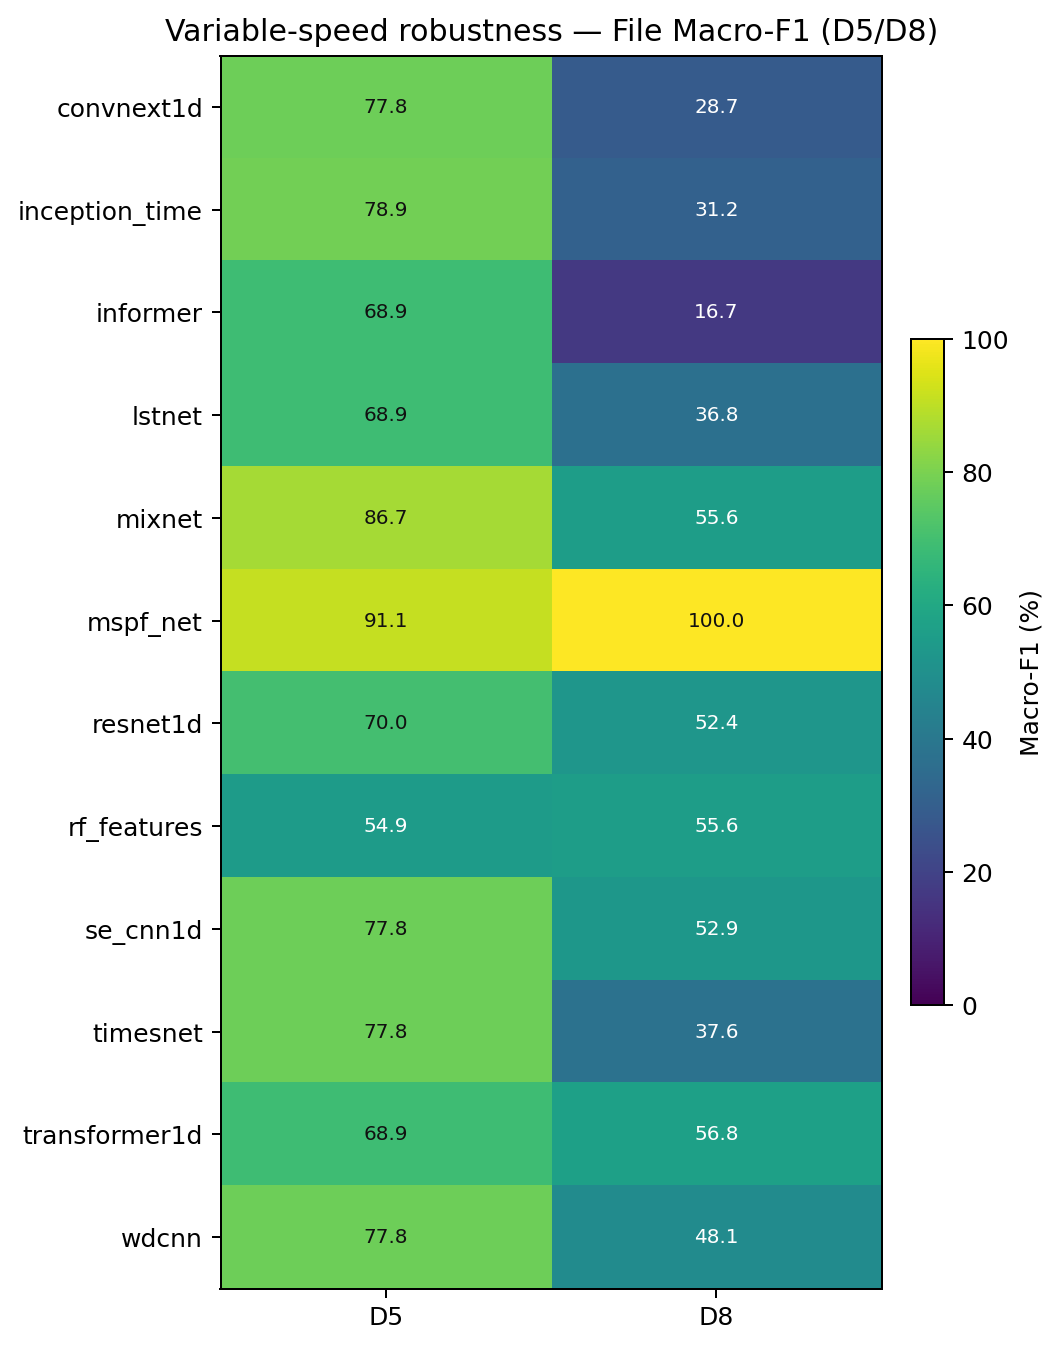
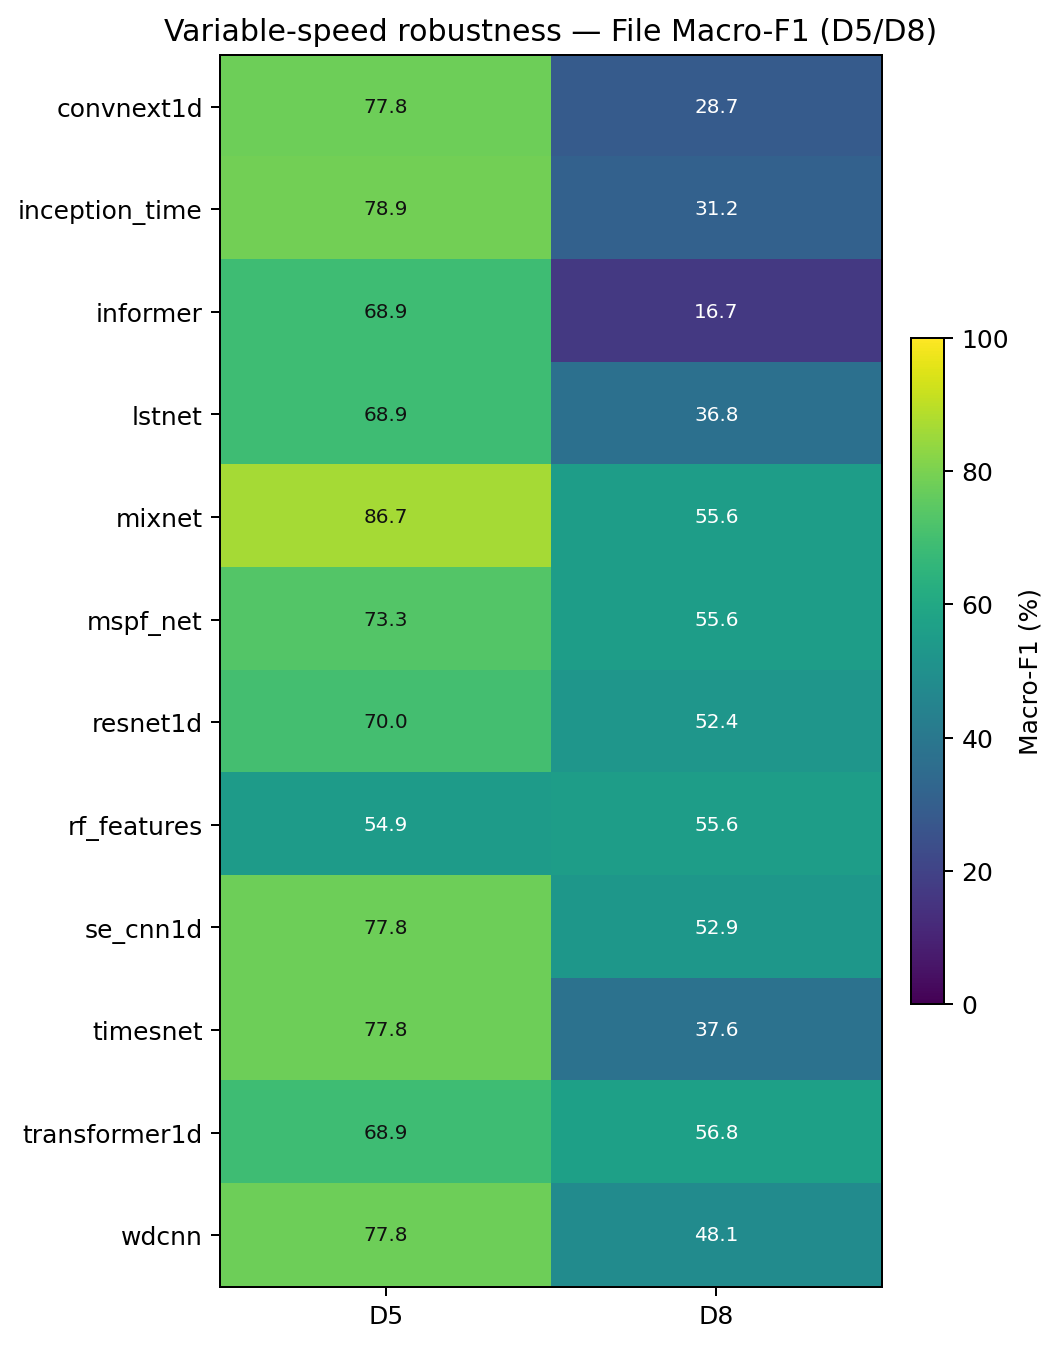
Robustness

diff --git a/scripts/plot_robustness_comparison.py b/scripts/plot_robustness_comparison.py
@@ -22,6 +22,36 @@ from mspf_net.utils.aggregate_robustness import (
 )
 
 
+# Canonical run per model for the cross-model comparison figures: the evaluated
+# softmax MSPF-Net and the recommended_fine baselines. This keeps MSPF-Net's many
+# ablation/variant runs out of the cross-model heatmaps, where they would
+# otherwise let MSPF-Net be compared on a best-of-variants basis against
+# single-run baselines.
+CANONICAL_MSPF_TAG = "softmax"
+BASELINE_TAG = "recommended_fine"
+
+
+def canonical_runs(df: pd.DataFrame) -> pd.DataFrame:
+    """Filter a cross-model table to one canonical run per model.
+
+    Keeps the softmax MSPF-Net run and the recommended_fine baseline runs. Rows
+    are matched on ``experiment_tag``; if that column is absent the table is
+    returned unchanged. Models with no canonical run are dropped (and reported)
+    rather than represented by an arbitrary or best-scoring variant.
+    """
+    if df.empty or "experiment_tag" not in df.columns:
+        return df
+    is_mspf = df["model"] == "mspf_net"
+    keep = (is_mspf & (df["experiment_tag"] == CANONICAL_MSPF_TAG)) | (
+        ~is_mspf & (df["experiment_tag"] == BASELINE_TAG)
+    )
+    filtered = df[keep].copy()
+    dropped = sorted(set(df["model"]) - set(filtered["model"]))
+    if dropped:
+        print(f"  [canonical_runs] no canonical run for: {', '.join(dropped)} (dropped)")
+    return filtered
+
+
 def _plot_heatmap(
     df: pd.DataFrame,
     plot_path: Path,
@@ -33,11 +63,13 @@ def _plot_heatmap(
 ) -> None:
     if df.empty or value_col not in df.columns:
         return
-    plot_df = (
-        df.dropna(subset=[value_col])
-        .sort_values(value_col, ascending=False)
-        .drop_duplicates([row_col, "target"], keep="first")
-    )
+    # Deterministic dedup: keep the most recent run per (row, target). Never
+    # select by metric value, which would bias a heatmap toward a model's best
+    # run when several runs/variants are present in the input table.
+    plot_df = df.dropna(subset=[value_col]).copy()
+    if "mtime" in plot_df.columns:
+        plot_df = plot_df.sort_values("mtime", ascending=False)
+    plot_df = plot_df.drop_duplicates([row_col, "target"], keep="first")
     if plot_df.empty:
         return
     pivot = plot_df.pivot(index=row_col, columns="target", values=value_col)
@@ -117,7 +149,11 @@ def main() -> int:
 
     target_order = sorted(ROBUSTNESS_TARGETS)
 
-    phase4_df = _load_csv(phase4_csv)
+    # Cross-model comparison uses only the canonical run per model (softmax
+    # MSPF-Net + recommended_fine baselines), so MSPF-Net's variants cannot be
+    # max-selected against single-run baselines. The MSPF-variant figures below
+    # are plotted from the separate mspf_net CSV and are intentionally unfiltered.
+    phase4_df = canonical_runs(_load_csv(phase4_csv))
     if not phase4_df.empty:
         _plot_heatmap(
             phase4_df,